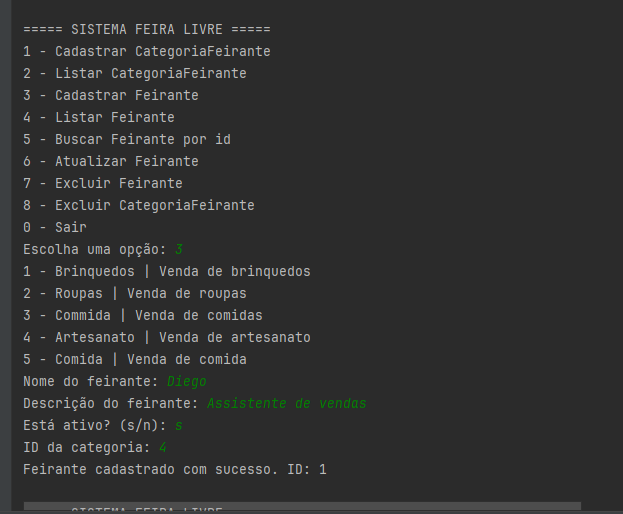
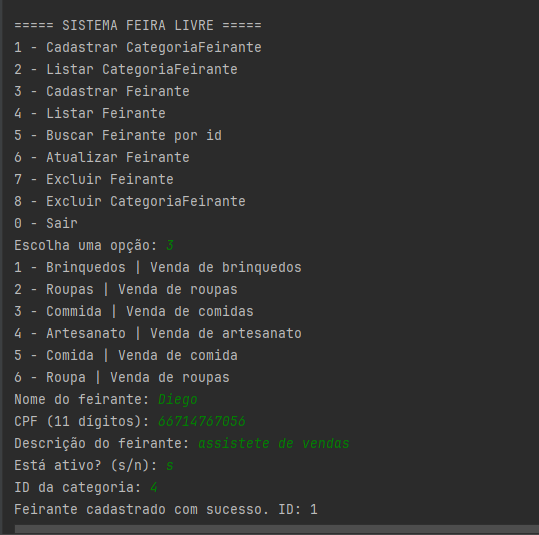
Adicionando cpf para feirantes

Changed region(s): [[0.0297, 0.0311, 1.0, 0.9961]]

diff --git a/src/br/com/feira/domain/Feirante.java b/src/br/com/feira/domain/Feirante.java
@@ -8,14 +8,16 @@ public class Feirante {
     private String descricao;
     private boolean ativo;
     private CategoriaFeirante categoriaFeirante;
+    private String cpf;
 
     public Feirante() {
     }
 
 
-    public Feirante(Long id, String nome, String descricao, boolean ativo, CategoriaFeirante categoriaFeirante) {
+    public Feirante(Long id, String nome, String cpf, String descricao, boolean ativo, CategoriaFeirante categoriaFeirante) {
         this.id = id;
         setNome(nome);
+        setCpf(cpf);
         this.descricao = descricao;
         this.ativo = ativo;
         setCategoriaFeirante(categoriaFeirante);
@@ -26,6 +28,21 @@ public class Feirante {
         if (nome == null || nome.trim().length() < 3) {
             throw new IllegalArgumentException("O nome do feirante deve ter pelo menos 3 caracteres.");
         }
+    }
+
+    private void validarCpf(String cpf) {
+        if (cpf == null || !cpf.matches("\\d{11}")) {
+            throw new IllegalArgumentException("CPF deve conter exatamente 11 dígitos numéricos.");
+        }
+    }
+
+    public void setCpf(String cpf) {
+        validarCpf(cpf);
+        this.cpf = cpf;
+    }
+
+    public String getCpf() {
+        return cpf;
     }
 
 

diff --git a/src/br/com/feira/repository/json/JsonFeiranteRepository.java b/src/br/com/feira/repository/json/JsonFeiranteRepository.java
@@ -74,6 +74,7 @@ public class JsonFeiranteRepository implements FeiranteRepository {
             json.append("  {\n");
             json.append("    \"id\": ").append(f.getId()).append(",\n");
             json.append("    \"nome\": \"").append(escapar(f.getNome())).append("\",\n");
+            json.append("    \"cpf\": \"").append(f.getCpf()).append("\",\n");
             json.append("    \"descricao\": \"").append(escapar(f.getDescricao())).append("\",\n");
             json.append("    \"ativo\": ").append(f.isAtivo()).append(",\n");
 
@@ -126,6 +127,7 @@ public class JsonFeiranteRepository implements FeiranteRepository {
 
                 Long id = Long.parseLong(extrair(obj, "id"));
                 String nome = extrair(obj, "nome");
+                String cpf = extrair(obj, "cpf");
                 String descricao = extrair(obj, "descricao");
                 boolean ativo = Boolean.parseBoolean(extrair(obj, "ativo"));
 
@@ -136,7 +138,7 @@ public class JsonFeiranteRepository implements FeiranteRepository {
 
                 CategoriaFeirante categoria = new CategoriaFeirante(catId, catNome, catDesc);
 
-                lista.add(new Feirante(id, nome, descricao, ativo, categoria));
+                lista.add(new Feirante(id, nome, cpf, descricao, ativo, categoria));
             }
 
             return lista;

diff --git a/src/br/com/feira/service/FeiranteService.java b/src/br/com/feira/service/FeiranteService.java
@@ -20,11 +20,11 @@ public class FeiranteService {
     }
 
 
-    public Feirante criar(String nome, String descricao, boolean ativo, Long categoriaId) {
+    public Feirante criar(String nome, String cpf, String descricao, boolean ativo, Long categoriaId) {
         CategoriaFeirante categoria = categoriaRepository.buscarPorId(categoriaId)
                 .orElseThrow(() -> new IllegalArgumentException("Categoria não encontrada."));
 
-        Feirante feirante = new Feirante(null, nome, descricao, ativo, categoria);
+        Feirante feirante = new Feirante(null, nome, cpf, descricao, ativo, categoria);;
         return feiranteRepository.salvar(feirante);
     }
 

diff --git a/src/br/com/feira/controller/FeiraController.java b/src/br/com/feira/controller/FeiraController.java
@@ -87,11 +87,12 @@ public class FeiraController {
         listarCategorias();
 
         String nome = lerTexto("Nome do feirante: ");
+        String cpf = lerTexto("CPF (11 dígitos): ");
         String descricao = lerTexto("Descrição do feirante: ");
         boolean ativo = lerBooleano("Está ativo? (s/n): ");
         Long categoriaId = lerLong("ID da categoria: ");
 
-        Feirante feirante = feiranteService.criar(nome, descricao, ativo, categoriaId);
+        Feirante feirante = feiranteService.criar(nome, cpf, descricao, ativo, categoriaId);
         System.out.println("Feirante cadastrado com sucesso. ID: " + feirante.getId());
     }
 